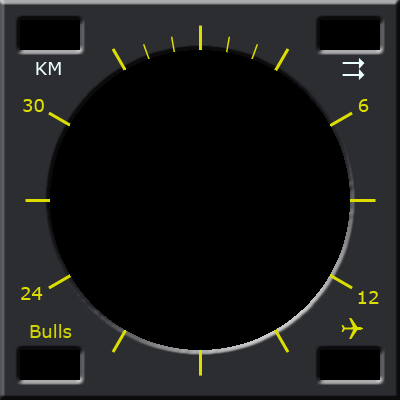
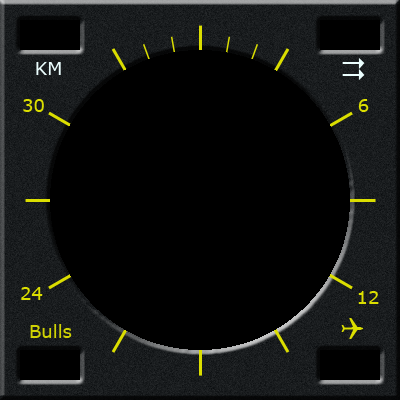
New panel Color + EngTemp

diff --git a/Ka50-Pit.html b/Ka50-Pit.html
@@ -144,7 +144,7 @@
 
 
 <div id="Cadran_RPM">
-	<img src="images/analog/rpm.gif" width="300" height="300"  > 
+	<img src="images/engine/EngRpm27.png" width="300" height="300"  > 
 
 	<!-- Aiguille -->
 	<SPAN style="position: absolute; left: 0px; top: 0px; width: 300px; height: 300px">
@@ -154,7 +154,7 @@
 
 
 <div id="Cadran_Vario">
-	<img src="images/analog/Vario.gif" width="300" height="300"  > 
+	<img src="images/analog/Vario-mi.gif" width="300" height="300"  > 
 	
 	<!-- Aiguille -->
 	<SPAN style="position: absolute; left: 0px; top: 0px; width: 300px; height: 300px">
@@ -255,8 +255,34 @@
     
 </div>
 
+<div id="Cadran_EngExTemp">
+	<img src="images/engine/Eng_ExTemp.gif" width="300" height="300"  >  
+	
+	<!-- Aiguille L-->
+	<SPAN style="position: absolute; left: 23px; top: 80px; width: 100px; height: 100px">
+	<img src="images/engine/F_Aiguille.gif" width="130" height="130" id="Eng_ExTemp_L">
+	</SPAN>
+	
+	<!-- Aiguille R-->
+	<SPAN style="position: absolute; left: 149px; top: 80px; width: 100px; height: 100px">
+	<img src="images/engine/F_Aiguille.gif" width="130" height="130" id="Eng_ExTemp_R">
+	</SPAN>
+
+	<!-- Aiguilles Température Mini -->
+	<SPAN style="position: absolute; left: 48px; top: 170px; width: 80px; height: 80px">
+	<img src="images/engine/MT_Aiguille.png" width="80" height="80" border="0" id="AM_TEM_mL">
+	</SPAN>
+
+	<SPAN style="position: absolute; left: 174px; top: 170px; width: 80px; height: 80px">
+	<img src="images/engine/MT_Aiguille.png" width="80" height="80" border="0" id="AM_TEM_mR">
+	</SPAN>
+	
+
+	
+</div>
+
 <div id="Cadran_RPM2">
-	<img src="images/analog/rpm.gif" width="300" height="300"  > 
+	<img src="images/engine/EngRpm27.png" width="300" height="300"  > 
 	
 	<!-- Aiguille -->
 	<SPAN style="position: absolute; left: 0px; top: 0px; width: 300px; height: 300px">
@@ -267,6 +293,8 @@
 	<SPAN style="position: absolute; left: 0px; top: 0px; width: 300px; height: 300px">
 	<img src="images/engine/M_Aiguille_R.gif" width="300" height="300" id="AIG_RPM_Eng_R">
 	</SPAN>	
+	
+
 
 </div>
 
@@ -278,7 +306,7 @@
 <div id="Panel_Datalink">
 
 
-	<img src="images/panel/DataLink_Panel_D.gif" width="320" height="200"  > 
+	<img src="images/panel/DataLink_Panel.png" width="320" height="200"  > 
 	
 	<SPAN style="position: absolute; left: 45px; top: 15px; width: 50px; height: 50px">
 	<img src="images/z_Led-Bouton_Vert.gif" width="50" height="50"  id="Dlink_T1" data-internal-id="0" onclick="javascript:CmdSiocDCS('Dlink_T1')">
@@ -308,8 +336,8 @@
 	<img src="images/z_Led-Bouton_Vert.gif" width="50" height="50"  id="Dlink_All" data-internal-id="0" onclick="javascript:CmdSiocDCS('Dlink_All')">
 	</SPAN>
 	<SPAN style="position: absolute; left: 45px; top: 135px; width: 50px; height: 50px">
-	<img src="images/z_Led-Bouton_Vert.gif" width="50" height="50"  id="Vierge" data-internal-id="0" onclick="javascript:CmdSiocDCS('Vierge')">
-	</SPAN>
+	<!-- <img src="images/z_Led-Bouton_Vert.gif" width="50" height="50"  id="Vierge" data-internal-id="0" onclick="javascript:CmdSiocDCS('Vierge')">
+	</SPAN> -->
 	<SPAN style="position: absolute; left: 105px; top: 135px; width: 50px; height: 50px">
 	<img src="images/z_Led-Bouton_Jaune.gif" width="50" height="50"  id="Clear" data-internal-id="0" onclick="javascript:CmdSiocDCS('Clear')">
 	</SPAN>
@@ -339,7 +367,7 @@
 
 <div id="Panel_Rotor">
 
-	<img src="images/rotor/Rotor-Panel_D.gif" width="500" height="200"  > 
+	<img src="images/rotor/Rotor-Panel.png" width="500" height="200"  > 
 	
 	<SPAN style="position: absolute; left: 125px; top: 150px; width: 75px; height: 40px ; font-size:1.5em" id="Test_val"> </SPAN>
 	
@@ -377,7 +405,7 @@
 <!-- xxxxxxxxxxxxxxxxxxxxxxxxxxxxxxxxxxxxxxxxxxxxxxxxxxxxxxxxxxxxxxxxxxxxxxxxxxxxxxxxxxxxxxxxxxxxxxxxxxxxx -->
 <div id="Panel_Oil">
 
-	<img src="images/panel/Temp-Panel_50_D.gif" width="400" height="200"  > 
+	<img src="images/panel/Temp-Panel_50.png" width="400" height="200"  > 
 
 	
 
@@ -487,7 +515,7 @@
 <div id="Panel_Pilototo">
 
 
-	<img src="images/pilototo/Pilototo_Panel_50_D.gif" width="400" height="140"  > 
+	<img src="images/pilototo/Autopilot_Panel_50.png" width="400" height="140"  > 
 
 	
 
@@ -536,7 +564,7 @@
 <!-- xxxxxxxxxxxxxxxxxxxxxxxxxxxxxxxxxxxxxxxxxxxxxxxxxxxxxxxxxxxxxxxxxxxxxxxxxxxxxxxxxxxxxxxxxxxxxxxxxxxxx -->
 <div id="Panel_Electric">
 
-	<img src="images/electric/Electric_Panel_50.gif" width="400" height="400"  usemap="#Panel_Elec"> 
+	<img src="images/electric/Electric_Panel_50.png" width="400" height="400"  usemap="#Panel_Elec"> 
 
 		
 	<!-- Etat Batteries Left Right -->
@@ -604,7 +632,7 @@
 <!-- xxxxxxxxxxxxxxxxxxxxxxxxxxxxxxxxxxxxxxxxxxxxxxxxxxxxxxxxxxxxxxxxxxxxxxxxxxxxxxxxxxxxxxxxxxxxxxxxxxxxx -->
 <div id="Panel_Start">
 
-	<img src="images/fuel/Fuel-Panel_50.gif" width="600" height="400"  usemap="#Panel_Fuel"> 
+	<img src="images/fuel/Fuel-Panel_50.png" width="600" height="400"  usemap="#Panel_Fuel"> 
 
 	<!-- Mapping du bouton de lecture de niveau de fuel (13005101) -->
 	<!-- Switch de Type de demarrage et de Selection de moteur -->
@@ -938,7 +966,7 @@
 
 <div id="Panel_Abris">
 
-	<img src="images/device/Abris.gif" width="500" height="180"  usemap="#Abris_P">
+	<img src="images/device/Abris.png" width="500" height="180"  usemap="#Abris_P">
 
 	<map name="Abris_P">
 
@@ -971,7 +999,7 @@
 
 <div id="Panel_Weapon">
 
-	<img src="images/weapon/Weapon_Panel.gif" width="500" height="480" usemap="#Weapon_P">
+	<img src="images/weapon/Weapon_Panel.png" width="500" height="480" usemap="#Weapon_P">
 
 	<map name="Weapon_P">
 
@@ -1070,7 +1098,7 @@
 
 <div id="Panel_UV26">
 
-	<img src="images/weapon/UV26.gif" width="250" height="480" usemap="#UV26_P">
+	<img src="images/weapon/UV26.png" width="250" height="480" usemap="#UV26_P">
 
 	<map name="UV26_P">
 

diff --git a/js/instrument.js b/js/instrument.js
@@ -231,6 +231,39 @@ function instrument_RPM2(l,r){
 	})
 }
 
+function instrument_EngTemp(left,right){
+	var t_origine = -135
+	var t_gain = 0.225
+
+	var m_origine = 180
+	var m_gain = 3.6
+	var leftm = left % 100
+	var rightm = right % 100
+	
+	$("#Eng_ExTemp_L").css({
+		'-moz-transform':'rotate('+(t_origine+t_gain*left)+'deg)',
+		'-webkit-transform':'rotate('+(t_origine+t_gain*left)+'deg)',
+		'-ms-transform':'rotate('+(t_origine+t_gain*left)+'deg)',
+	})
+	
+	$("#Eng_ExTemp_R").css({
+		'-moz-transform':'rotate('+(t_origine+t_gain*right)+'deg)',
+		'-webkit-transform':'rotate('+(t_origine+t_gain*right)+'deg)',
+		'-ms-transform':'rotate('+(t_origine+t_gain*right)+'deg)',
+	})
+
+	$("#AM_TEM_mL").css({
+		'-moz-transform':'rotate('+(m_origine+m_gain*leftm)+'deg)',
+		'-webkit-transform':'rotate('+(m_origine+m_gain*leftm)+'deg)',
+		'-ms-transform':'rotate('+(m_origine+m_gain*leftm)+'deg)',
+	})
+	
+	$("#AM_TEM_mR").css({
+		'-moz-transform':'rotate('+(m_origine+m_gain*rightm)+'deg)',
+		'-webkit-transform':'rotate('+(m_origine+m_gain*rightm)+'deg)',
+		'-ms-transform':'rotate('+(m_origine+m_gain*rightm)+'deg)',
+	})
+}
 
 function instrument_Vario(val){
 
@@ -246,6 +279,9 @@ function instrument_Vario(val){
 	})
 
 }
+
+
+
 
 
 

diff --git a/js/panel_instrument.js b/js/panel_instrument.js
@@ -62,6 +62,10 @@ function panel_instrument_engine(KaTZPit_data){
 		// RPM Moteurs  -----------------------------------------------------------------------------
 		var RPM_Eng = dataread_split_2(KaTZPit_data["Eng_rpm"])
 		instrument_RPM2(RPM_Eng[1]/10,RPM_Eng[0]/10)
+		
+		// Températures Moteurs  -----------------------------------------------------------------------------
+		var Temp_Eng = dataread_split_2(KaTZPit_data["Eng_temp"])
+		instrument_EngTemp(Temp_Eng[1],Temp_Eng[0])
 
 		// Pitch et RPM Rotor  -----------------------------------------------------------------------
 		instrument_Pitch(KaTZPit_data["Pitch_Rot"])

diff --git a/js/panel_pilototo.js b/js/panel_pilototo.js
@@ -43,7 +43,7 @@ function panel_pilototo_update(KaTZPit_data){
 	
 	if (dataread_posit(KaTZPit_data["AP_KA2"],1) ==1) {$("#PA-Hover").fadeIn()} else {$("#PA-Hover").fadeOut()}	
 	if (dataread_posit(KaTZPit_data["AP_KA2"],2) ==1) {$("#PA-Descent").fadeIn()} else {$("#PA-Descent").fadeOut()}	
-	if (dataread_posit(KaTZPit_data["Wpn_Flag"],5) ==1) {$("#PA-TgtTurn").fadeIn()} else {$("#PA-TgtTurn").fadeOut()}	
+	if (dataread_posit(KaTZPit_data["AP_KA2"],3) ==1) {$("#PA-TgtTurn").fadeIn()} else {$("#PA-TgtTurn").fadeOut()}	
 
 	
 }

diff --git a/css/KA50-Pit.css b/css/KA50-Pit.css
@@ -137,6 +137,13 @@ p {
 	/* Dimension 400 x 400			              */
 }
 
+#Cadran_EngExTemp{
+	position: absolute;
+	top: 250px;
+	left: 1250px;
+	/* Dimension 400 x 400			              */
+}
+
 #Panel_Datalink {
 	position: absolute;
 	top: 010px;
